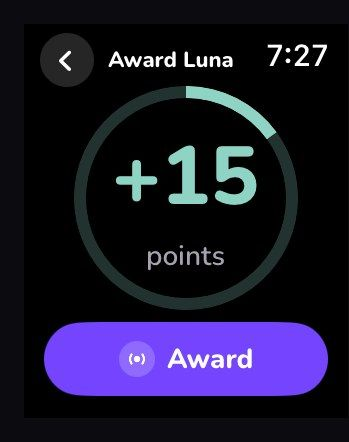
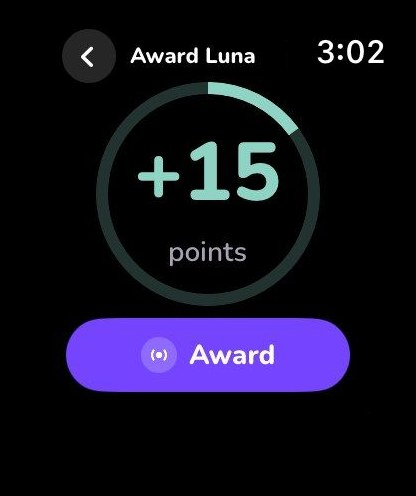
Stage: one Apple Watch frame true to the Series 11 46 mm (case 39 x 46 mm, lit area 82.0 x 82.9%, concentric corners, crown and side button); full 416 x 496 watch screens so no text is cut

Changed region(s): [[0.1146, 0.0882, 0.9456, 0.9118], [0.1146, 0.0588, 0.2865, 0.2059], [0.745, 0.0588, 0.9456, 0.1471]]

diff --git a/site.css b/site.css
@@ -105,9 +105,26 @@ a{color:inherit}
 .phone.open{padding:0;aspect-ratio:164.6/117.8;border-radius:6.379%/8.913%}
 .phone.open>*{position:absolute;left:2.096%;right:2.096%;top:2.929%;bottom:2.929%;border-radius:4.122%/5.861%;overflow:hidden}
 .phone.open img,.phone.open video{width:100%;height:100%;object-fit:cover;border-radius:0}
-.watch{position:relative;border-radius:46px;padding:12px;background:linear-gradient(150deg,#45404f,#16141a 45%,#2b2733);box-shadow:0 0 0 1.5px #555060 inset,0 30px 60px -20px rgba(0,0,0,.7)}
-.watch img{border-radius:34px;width:100%}
-.watch:after{content:"";position:absolute;right:-7px;top:26%;width:7px;height:52px;border-radius:0 6px 6px 0;background:#3a3542}
+/* Apple Watch Series 11, 46 mm, true to the device (Apple's published specs): case 39 x 46 mm; display 416 x 496 px over
+   1,220 sq mm, so the lit area is 32.0 x 38.1 mm (82.0% x 82.9% of the case), centred, with 3.5 mm of black glass a side
+   and 3.9 mm top and bottom. Case corners about 11 mm (28.2% / 23.9%); the screen's are concentric (7.5 mm: 23.4% / 19.7%
+   of the screen). A 0.9 mm metal rim shows from the front (2.3% of the width). The Digital Crown and the side button sit
+   on the right. Every watch on the site is this one frame, and every size is a percentage of the case (or cqw of it),
+   so the bezels match at any width. A watch screen is 416 x 496, the same shape as the lit area: nothing is cropped. */
+.watch{position:relative;container-type:inline-size;isolation:isolate;aspect-ratio:39/46;border-radius:28.2%/23.9%;box-shadow:0 30px 60px -20px rgba(0,0,0,.7),0 20px 50px -30px rgba(116,68,255,.45)}
+.watch::before{content:"";position:absolute;inset:0;z-index:-1;box-sizing:border-box;border:2.3cqw solid transparent;border-radius:inherit;
+  background:linear-gradient(#050507,#050507) padding-box,linear-gradient(140deg,#a3a0ad,#5b5864 18%,#2c2a33 46%,#3b3843 64%,#76737f 86%,#aeabb7) border-box;
+  box-shadow:inset 0 0 0 .5px rgba(255,255,255,.28),0 0 0 .5px rgba(0,0,0,.5)}
+/* the crown (ridged, 6.4 mm tall, 2.4 mm proud) and the side button below it (10 mm long, flush but for 0.8 mm) */
+.watch::after{content:"";position:absolute;z-index:-2;top:0;bottom:0;left:96%;width:9.5cqw;
+  background:
+    repeating-linear-gradient(180deg,rgba(255,255,255,.16) 0 .45cqw,rgba(0,0,0,.18) .45cqw .9cqw) 0 25.5%/100% 13.9% no-repeat,
+    linear-gradient(90deg,#3c3944,#8e8b97 55%,#55525e) 0 25.5%/100% 13.9% no-repeat,
+    linear-gradient(90deg,#34313b,#6f6c78) 0 59%/63% 21.7% no-repeat;
+  border-radius:0 2cqw 2cqw 0}
+.watch>img,.watch>.v{position:absolute;left:8.99%;top:8.55%;width:82.03%;height:82.91%;border-radius:23.4%/19.7%;overflow:hidden;background:#000}
+.watch>img{object-fit:cover}
+.watch>.v :is(img,video){width:100%;height:100%;object-fit:cover;border-radius:0}
 
 /* cards and tiles shared by inner pages */
 .tile{background:var(--card);border:1px solid var(--line);border-radius:28px;padding:28px}
